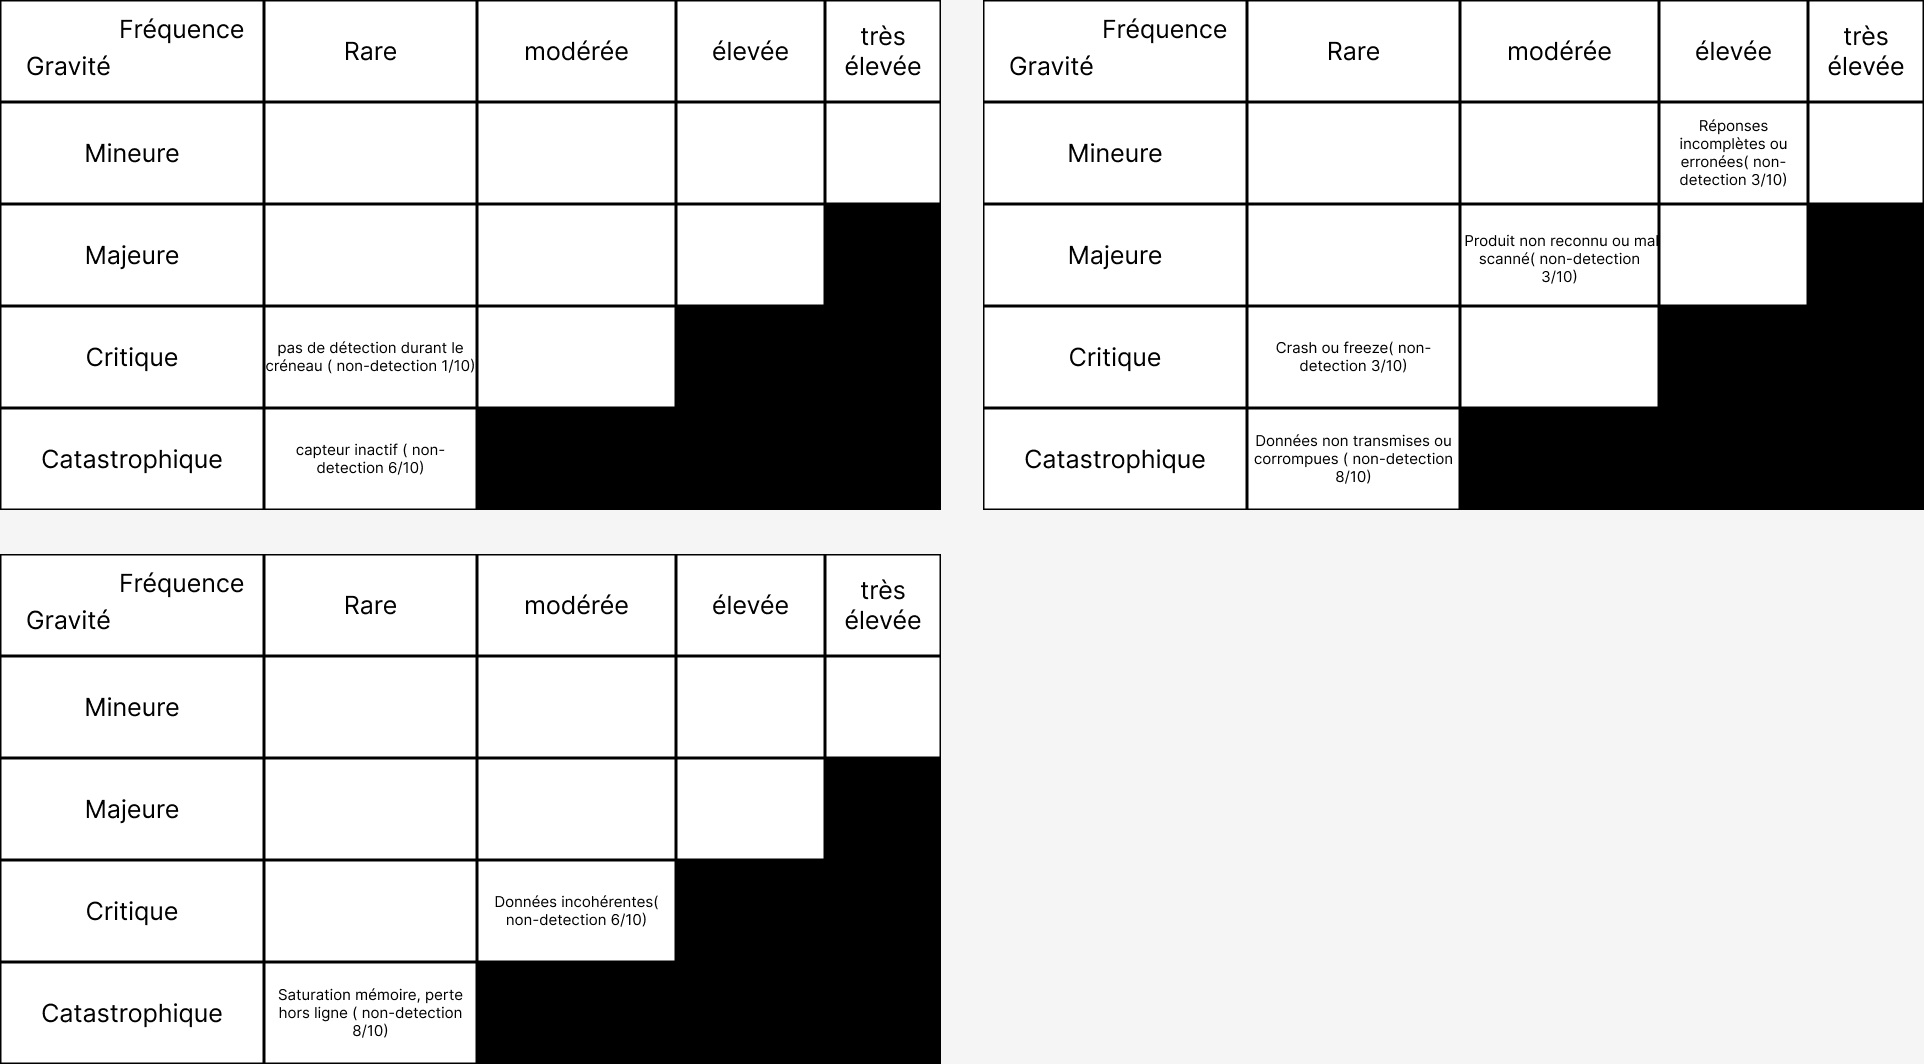
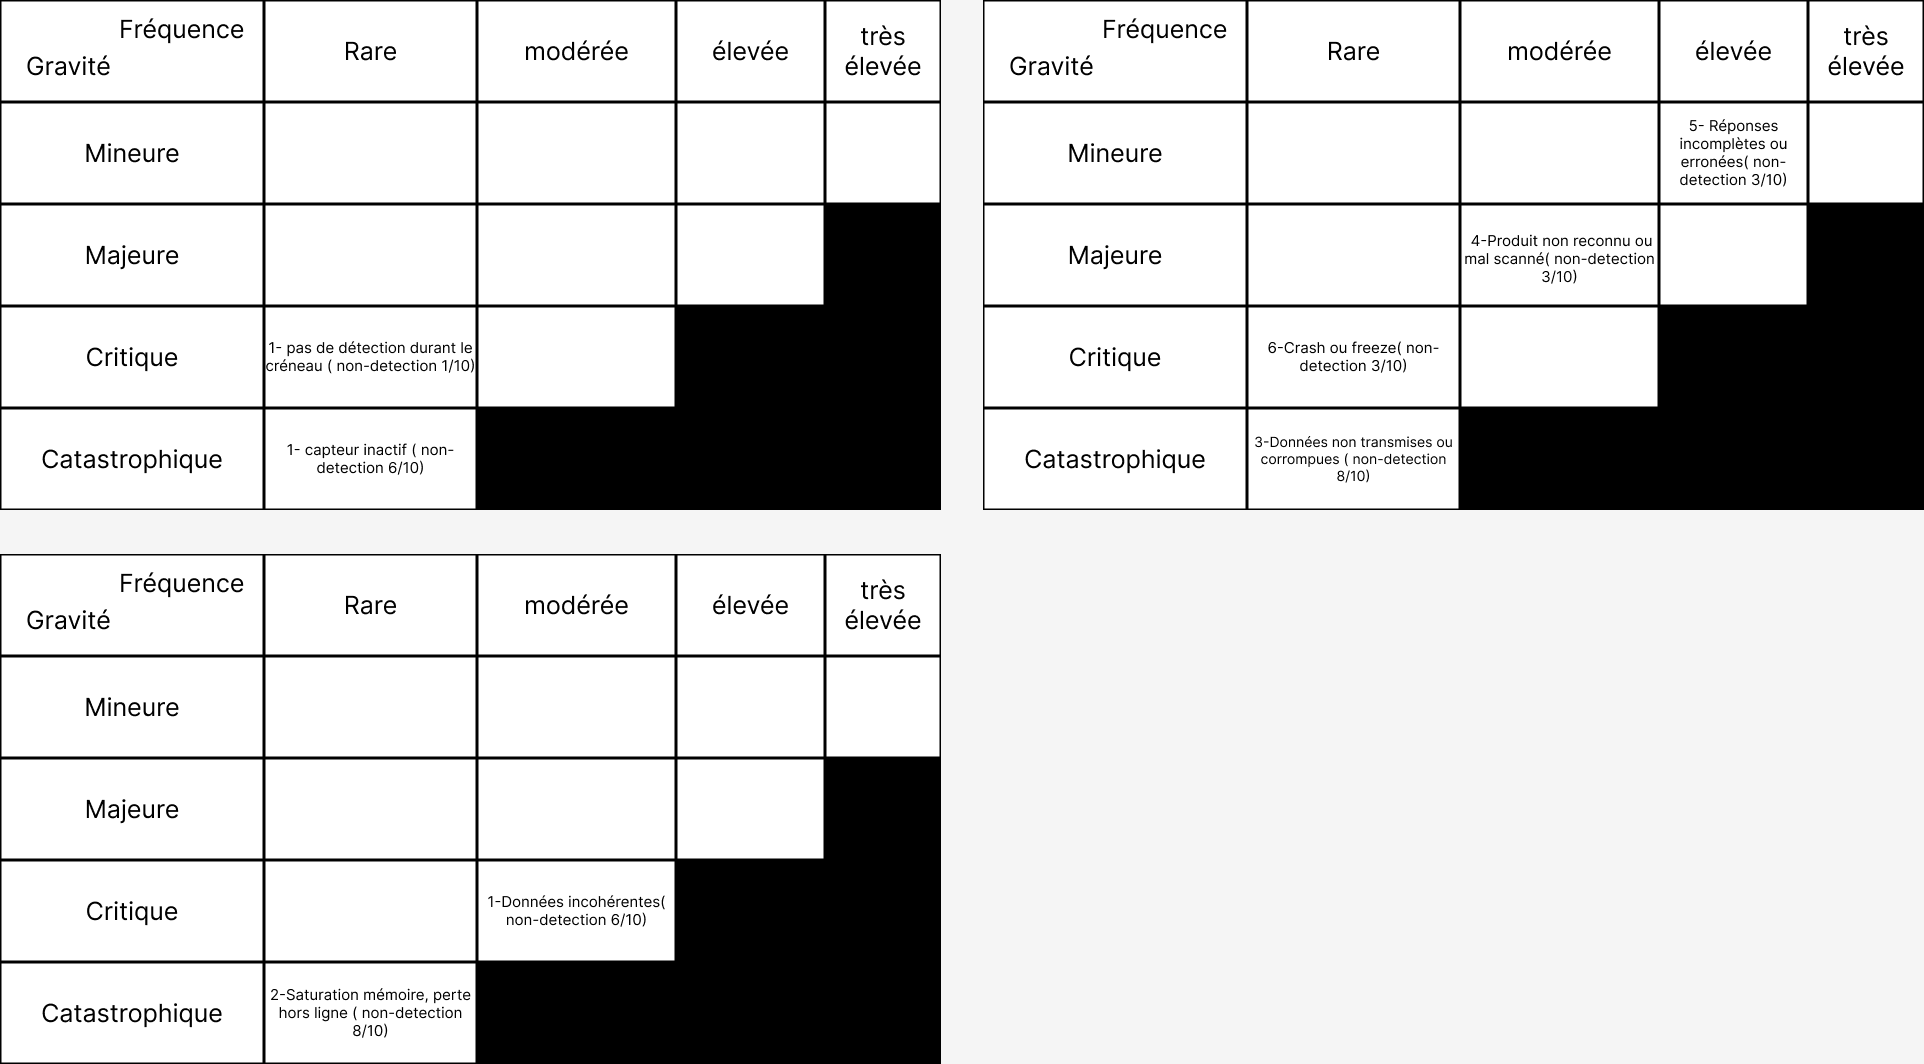
correction wbs,matrice,profile

diff --git a/cahier_des_charges/cahier_des_charges.md b/cahier_des_charges/cahier_des_charges.md
@@ -711,40 +711,40 @@ Assurer la **collecte automatisée, sécurisée et traçable** des données envi
 La collecte automatique s’appuie sur les 7 sous-fonctions suivantes :
 
 1. **Intégration des capteurs IoT**  
-   - Sélection (température, humidité, présence)  
-   - Compatibilité radio (BLE / RF433)  
-   - Appairage sécurisé  
-   - Test IP65/IP68, autonomie, précision
+   - 1.1 Sélection (température, humidité, présence)  
+   - 1.2 Compatibilité radio (BLE / RF433)  
+   - 1.3 Appairage sécurisé  
+   - 1.4 Test IP65/IP68, autonomie, précision
 
 2. **Lecture automatisée des données**  
-   - Configuration des intervalles (ex : toutes les 10 min)  
-   - Stockage local chiffré  
-   - Déclenchement d’alertes
+   - 2.1 Configuration des intervalles (ex : toutes les 10 min)  
+   - 2.2 Stockage local chiffré  
+   - 2.3 Déclenchement d’alertes
 
 3. **Synchronisation des données**  
-   - Mécanisme de synchro différée  
-   - Transmission HTTPS/MQTT  
-   - File d’attente et gestion des conflits
+   - 3.1 Mécanisme de synchro différée  
+   - 3.2 Transmission HTTPS/MQTT  
+   - 3.3 File d’attente et gestion des conflits
 
 4. **Traçabilité alimentaire**  
-   - Scan RFID / codes-barres  
-   - Association lots-produits  
-   - Journalisation des stocks
+   - 4.1 Scan RFID / codes-barres  
+   - 4.2 Association lots-produits  
+   - 4.3 Journalisation des stocks
 
 5. **Données comportementales**  
-   - Questionnaires hygiène / formation  
-   - Stockage et scoring automatisé  
-   - Suivi nominatif ou anonyme
+   - 5.1 Questionnaires hygiène / formation  
+   - 5.2 Stockage et scoring automatisé  
+   - 5.3 Suivi nominatif ou anonyme
 
 6. **Système d’alertes et journalisation**  
-   - Relevés capteurs  
-   - Historique actions correctives  
-   - Suivi des validations manuelles
+   - 6.1 Relevés capteurs  
+   - 6.2 Historique actions correctives  
+   - 6.3 Suivi des validations manuelles
 
 7. **Sécurité et conformité RGPD**  
-   - Chiffrement AES-256  
-   - Gestion des droits (profils utilisateurs)  
-   - Consentement utilisateur
+   - 7.1 Chiffrement AES-256  
+   - 7.2 Gestion des droits (profils utilisateurs)  
+   - 7.3 Consentement utilisateur
 
 
 **WBS – Collecte des données HACCP**
@@ -882,67 +882,6 @@ a version de base de l’application HACCP repose sur un déploiement fonctionne
 
 Cette estimation pourra évoluer selon les sites pilotes (surface, nombre de chambres froides, besoins en redondance) et les choix de fournisseurs lors du prototypage.
 *Ici, il faut imaginer en faisant une petite étude de marchée (cf des sites marchands spécialisés)*
-<<<<<<< HEAD
-#### 3.x.2 Options et variantes proposées non retenues au cahier des charges
-#### 3.x.3 Mesures prises pour respecter les contraintes et leurs conséquences économiques
-#### 3.x.4 Outils d’installation, de maintenance … à prévoir
-
-**1. Maintenance logicielle**
-
-- **Mises à jour de l’application mobile** :
-  - Fréquence : mensuelle (corrections de bugs, améliorations UX, sécurité).
-  - Canal : via les stores (Google Play, App Store) ou MDM interne pour appareils pro.
-  - Rétrocompatibilité assurée avec les capteurs existants et données stockées.
-
-- **Suivi de la synchronisation et des performances** :
-  - Journalisation des erreurs (logs techniques).
-  - Système d’alerte automatique en cas d’échec ou lenteur de synchronisation.
-  - Correctifs déployés en mise à jour prioritaire en cas de dysfonctionnement critique.
-
-- **Maintenance des modules IA (si activés ultérieurement)** :
-  - Recalibrage ou entraînement périodique des modèles.
-  - Vérification des seuils d’alerte (non-conformité prédite, profil de risque évolutif).
-
----
-
-**2. Maintenance matérielle – Capteurs IoT**
-
-- **Vérification périodique du bon fonctionnement** :
-  - Contrôle hebdomadaire automatisé des transmissions (signal, batterie, valeurs).
-  - Détection des capteurs inactifs (inactivité > 30 min) → alerte au gestionnaire.
-
-- **Remplacement des capteurs** :
-  - Capteurs à batterie longue durée (≥ 6 mois).
-  - Remplaçables sans reconfiguration (ID unique, auto-reconnaissance via l’application).
-  - Procédure standardisée d’installation disponible dans l’app (guide ou tutoriel).
-
-- **Calibration** :
-  - Température / humidité recalibrées tous les 6 à 12 mois selon environnement.
-  - Enregistrement des interventions de maintenance dans le journal système.
-
----
-
-**3. Maintenance des données**
-
-- **Archivage automatique** :
-  - Les données HACCP (relevés, alertes, questionnaires) sont archivées localement puis exportées vers le serveur sécurisé (fréquence configurable, ex. 7 jours).
-  - Conformité RGPD assurée : durée de conservation limitée, droit à l’effacement, anonymisation possible.
-
-- **Sauvegarde** :
-  - Backup automatique des bases locales (app mobile) en cas de plantage ou désinstallation.
-  - Export manuel possible sur demande (clé USB, PDF, fichier chiffré).
-
----
-
-**4. Support technique**
-
-- Interface dédiée pour les administrateurs (facultative) permettant :
-  - Suivi en temps réel de l’état des capteurs
-  - Consultation de l’historique des erreurs et interventions
-  - Déclenchement manuel d’une synchronisation ou d’une vérification système
-
-#### 3.x.5 Décomposition en modules, sous-ensembles
-=======
 #### 3.3.2 Options et variantes proposées non retenues au cahier des charges
 ### Solutions envisagées mais non retenues
 
@@ -1023,7 +962,6 @@ En résumé, pour garantir la conformité RGPD, la sécurité et la robustesse i
 
 #### 3.3.4 Outils d’installation, de maintenance … à prévoir
 #### 3.3.5 Décomposition en modules, sous-ensembles
->>>>>>> refs/remotes/origin/main
 
 L’application sera composée de plusieurs modules fonctionnels, organisés de manière modulaire afin de faciliter le développement, l’entretien et l’évolution de la solution. Parmi eux, le **module tableau de bord** est un point central de l’expérience utilisateur.
 
@@ -1090,14 +1028,14 @@ Le module "tableau de bord" est au cœur de la **stratégie UX de l’applicatio
 *Table de défaillance pour chaque fonction de service avec un paragraphe commentant chaque défaillance et/ou chaque cause/effet/détection d’importance notable*
 | Fonction du produit              | Mode de défaillance                   | Effet de la défaillance                              | Causes possibles de la défaillance                   | Détection | Occurrence | Gravité | Criticité (D×O×G) |
 |----------------------------------|---------------------------------------|------------------------------------------------------|------------------------------------------------------|------------|-------------|----------|--------------------|
-| Capteur IoT       | Capteur inactif                       | Non-détection d’un dépassement de seuil critique     | Batterie vide, signal coupé, défaut matériel         | 6          | 5           | 9        | 270                |
-| Capteur de présence nettoyage    | Pas de détection durant le créneau    | Tâche non réalisée mais non signalée                 | Mauvais positionnement, zone non couverte            | 1          | 3           | 8        | 24                |
-| Synchronisation mobile-serveur   | Données non transmises ou corrompues  | Perte de traçabilité, non-conformité réglementaire   | Perte de réseau, plantage de l’app mobile            | 8          | 4           | 10        | 320                |
-| Stockage local des données       | Saturation mémoire, perte hors ligne  | Données perdues avant synchronisation                | Manque de contrôle espace, bug système               | 8          | 3           | 10       | 240                 |
-| Application mobile               | Crash ou freeze                       | Blocage temporaire de la collecte                    | Erreur de code, surcharge mémoire, conflits système  | 3          | 3           | 8        | 72                 |
-| Saisie questionnaire personnel   | Réponses incomplètes ou erronées      | Mauvais suivi comportemental                         | Oubli, inattention, interface mal conçue             | 3          | 7           | 4        | 84                |
-| Scan RFID / QR code              | Produit non reconnu ou mal scanné     | Rupture de la traçabilité d’un lot alimentaire       | Étiquette abîmée, éclairage insuffisant              | 3          | 6           | 7        | 126                |
-| Capteur IoT               | Données incohérentes                  | Sous-estimation du risque microbien                  | Capteur mal calibré, condensation                    | 6          | 6           | 9        | 324                 |
+| 1-Capteur IoT       | Capteur inactif                       | Non-détection d’un dépassement de seuil critique     | Batterie vide, signal coupé, défaut matériel         | 6          | 5           | 9        | 270                |
+| 1-Capteur de présence nettoyage    | Pas de détection durant le créneau    | Tâche non réalisée mais non signalée                 | Mauvais positionnement, zone non couverte            | 1          | 3           | 8        | 24                |
+| 3-Synchronisation mobile-serveur   | Données non transmises ou corrompues  | Perte de traçabilité, non-conformité réglementaire   | Perte de réseau, plantage de l’app mobile            | 8          | 4           | 10        | 320                |
+| 2-Stockage local des données       | Saturation mémoire, perte hors ligne  | Données perdues avant synchronisation                | Manque de contrôle espace, bug système               | 8          | 3           | 10       | 240                 |
+| 6-Application mobile               | Crash ou freeze                       | Blocage temporaire de la collecte                    | Erreur de code, surcharge mémoire, conflits système  | 3          | 3           | 8        | 72                 |
+| 5-Saisie questionnaire personnel   | Réponses incomplètes ou erronées      | Mauvais suivi comportemental                         | Oubli, inattention, interface mal conçue             | 3          | 7           | 4        | 84                |
+| 4-Scan RFID / QR code              | Produit non reconnu ou mal scanné     | Rupture de la traçabilité d’un lot alimentaire       | Étiquette abîmée, éclairage insuffisant              | 3          | 6           | 7        | 126                |
+| 1-Capteur IoT               | Données incohérentes                  | Sous-estimation du risque microbien                  | Capteur mal calibré, condensation                    | 6          | 6           | 9        | 324                 |
 
 
 ### 4.3 Gestion des défaillances
@@ -1105,7 +1043,7 @@ Le module "tableau de bord" est au cœur de la **stratégie UX de l’applicatio
 *La __Matrice de criticité__*
 <img src=img/matrice_de_criticité.png>
 
-### Capteur inactif (Gravité : Catastrophique, Probabilité : rare)
+### 1-Capteur inactif (Gravité : Catastrophique, Probabilité : rare)
 
 **Empêcher :**  
 Déployer des capteurs redondants dans les zones critiques (ex. : chambres froides), avec un plan de vérification hebdomadaire (test de signal, batterie). Installer des capteurs validés IP65 avec autonomie longue durée et indicateur d'état.
@@ -1118,7 +1056,7 @@ Envoyer immédiatement une notification au responsable HACCP. Activer un mode ma
 
 ---
 
-### Capteur de présence non déclenché (Gravité : Critique, Probabilité : Rare)
+### 1-Capteur de présence non déclenché (Gravité : Critique, Probabilité : Rare)
 
 **Empêcher :**  
 Optimiser l’emplacement des capteurs avec un guide d’installation (zone de détection, hauteur, orientation). Prévoir une validation manuelle complémentaire à chaque tâche planifiée (ex. : bouton “nettoyage effectué”).
@@ -1131,7 +1069,7 @@ Envoyer une notification au responsable avec la possibilité de valider manuelle
 
 ---
 
-### Données non transmises ou corrompues (Gravité : Catastrophique, Probabilité : Rare)
+### 3-Données non transmises ou corrompues (Gravité : Catastrophique, Probabilité : Rare)
 
 **Empêcher :**  
 Prévoir une architecture de stockage local robuste avec buffer sécurisé et file d’attente résiliente. Tester les scénarios de déconnexion pour valider la reprise.
@@ -1144,7 +1082,7 @@ En cas de perte réseau, activer un mode hors-ligne prolongé. Lors du retour de
 
 ---
 
-### Saturation mémoire, perte hors ligne  (Gravité : Catastrophique, Probabilité : Rare)
+### 2-Saturation mémoire, perte hors ligne  (Gravité : Catastrophique, Probabilité : Rare)
 
 **Empêcher :**  
 Mettre en place une vérification régulière de l’espace disponible sur l’appareil (monitoring de capacité mémoire). Définir une politique de nettoyage automatique des anciennes données ou des logs non critiques. Compresser les données localement pour limiter l’occupation.
